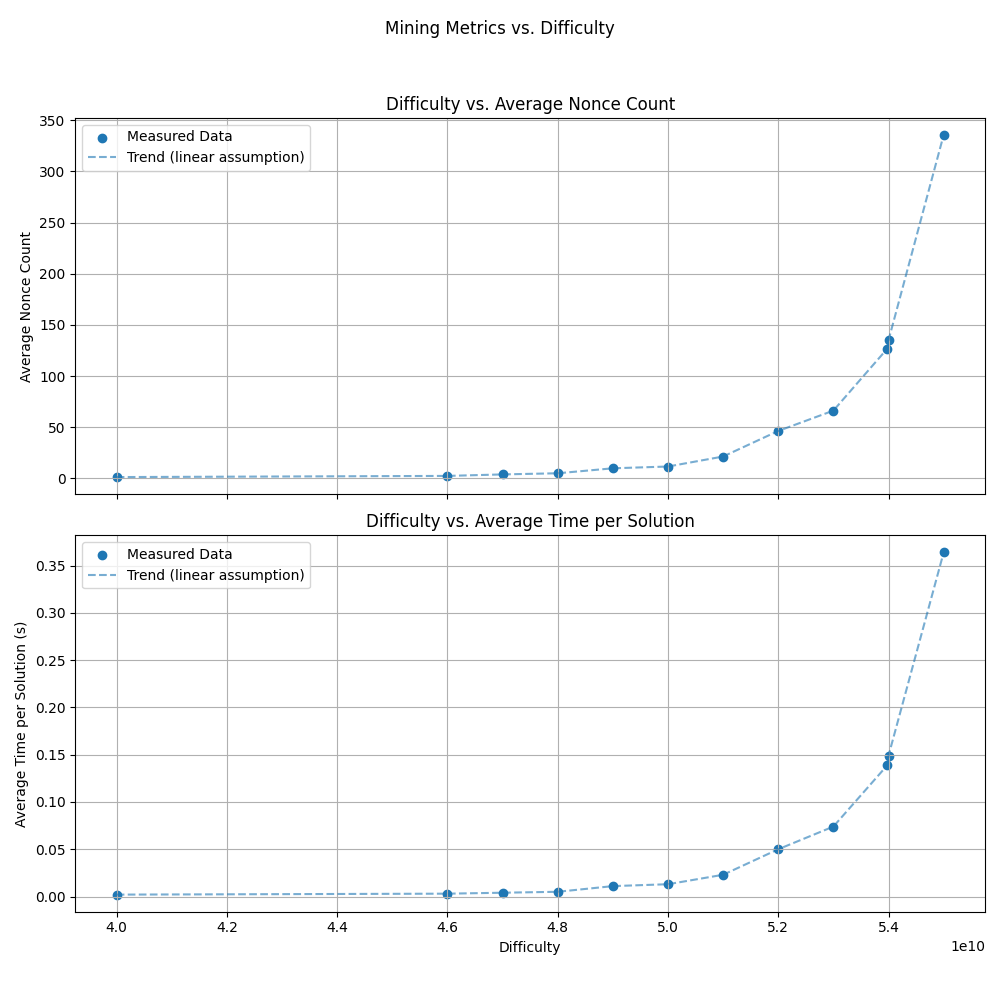
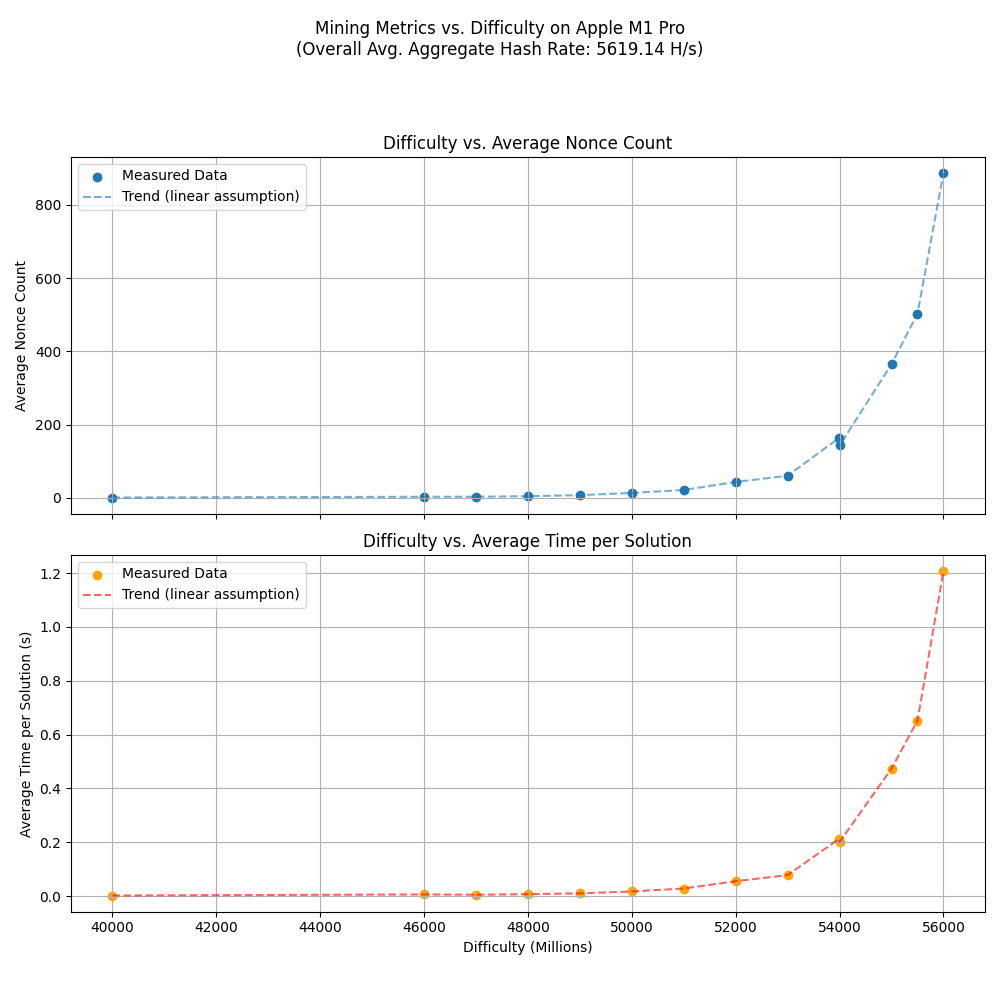
more data
added time back in it is better this way

diff --git a/plot_nonces.py b/plot_nonces.py
@@ -4,9 +4,11 @@ import re
 import io
 import argparse
 import numpy as np # For calculating the average hash rate safely
+import platform # Import platform module
+import subprocess # Import subprocess to run sysctl
 
 # --- Argument Parsing ---
-parser = argparse.ArgumentParser(description='Plot mining difficulty vs nonce count.')
+parser = argparse.ArgumentParser(description='Plot mining difficulty vs nonce count and time.')
 parser.add_argument(
     'input_file',
     nargs='?',
@@ -17,11 +19,62 @@ args = parser.parse_args()
 
 # --- Use parsed filename ---
 INPUT_FILENAME = args.input_file
-OUTPUT_PLOT_FILENAME = "difficulty_vs_nonce_count.png" # Renamed output file
+OUTPUT_PLOT_FILENAME = "difficulty_vs_metrics.png" # Back to original name
+
+# --- Get CPU Info ---
+cpu_info = "Unknown CPU" # Default value
+try:
+    system = platform.system()
+    if system == "Darwin": # macOS specific check
+        try:
+            # Use sysctl to get the detailed CPU brand string on macOS
+            result = subprocess.run(
+                ['sysctl', '-n', 'machdep.cpu.brand_string'],
+                capture_output=True, text=True, check=True
+            )
+            cpu_info = result.stdout.strip()
+        except (FileNotFoundError, subprocess.CalledProcessError, Exception) as e:
+             print(f"Warning: Could not get detailed CPU info via sysctl: {e}")
+             # Fallback to platform.processor() or uname on macOS if sysctl fails
+             cpu_info = platform.processor()
+             if not cpu_info:
+                 uname_info = platform.uname()
+                 cpu_info = f"{uname_info.machine} (macOS fallback)"
+
+    elif system == "Linux":
+        # On Linux, try reading /proc/cpuinfo for model name
+        try:
+            with open('/proc/cpuinfo') as f:
+                 for line in f:
+                     if line.strip().startswith('model name'):
+                         cpu_info = line.split(':', 1)[1].strip()
+                         break # Found the first model name
+            # Fallback if 'model name' not found
+            if cpu_info == "Unknown CPU":
+                cpu_info = platform.processor()
+                if not cpu_info:
+                    uname_info = platform.uname()
+                    cpu_info = f"{uname_info.machine} (Linux fallback)"
+        except FileNotFoundError:
+             print("Warning: /proc/cpuinfo not found.")
+             cpu_info = platform.processor() or f"{platform.uname().machine} (Linux fallback)"
+
+    elif system == "Windows":
+         cpu_info = platform.processor() or f"{platform.uname().machine} (Windows fallback)" # platform.processor often works well on Windows
+
+    else: # Other OS
+         cpu_info = platform.processor()
+         if not cpu_info:
+              uname_info = platform.uname()
+              cpu_info = f"{uname_info.machine} / {system} (fallback)"
+
+except Exception as e:
+    print(f"Warning: Error detecting CPU info: {e}")
+    cpu_info = "Unknown CPU" # Ensure it has a default
 
 data = []
-# Updated Regex to capture the new format
-line_regex = re.compile(r"Difficulty:\s*(\d+),\s*Average Nonce Count:\s*([\d\.]+),\s*Total Time:\s*([\d\.]+),\s*Aggregate Hash Rate:\s*([\d\.]+)")
+# Regex updated to capture the "Avg Time" again
+line_regex = re.compile(r"Difficulty:\s*(\d+),\s*Average Nonce Count:\s*([\d\.]+),\s*Avg Time:\s*([\d\.]+)\s*s,\s*Aggregate Hash Rate:\s*([\d\.]+)")
 
 print(f"Reading data from {INPUT_FILENAME}...")
 try:
@@ -32,11 +85,12 @@ try:
                 try:
                     difficulty = int(match.group(1))
                     avg_nonce_count = float(match.group(2))
-                    total_time = float(match.group(3)) # Can still capture if needed, but not plotting
+                    avg_time = float(match.group(3)) # Capture Avg Time
                     agg_hash_rate = float(match.group(4))
                     data.append({
                         "Difficulty": difficulty,
                         "AvgNonceCount": avg_nonce_count,
+                        "AvgTime": avg_time, # Store Avg Time
                         "AggHashRate": agg_hash_rate
                     })
                 except ValueError:
@@ -45,7 +99,8 @@ try:
     if not data:
          print("Error: No valid data lines found in the file. Did the Rust program run correctly?")
          print(f"Check the contents of '{INPUT_FILENAME}'. Expecting lines like:")
-         print("Difficulty: 56000000000, Average Nonce Count: 745.18, Total Time: 7.783, Aggregate Hash Rate: 4787.08")
+         # Updated example format
+         print("Difficulty: 56000000000, Average Nonce Count: 886.08, Avg Time: 1.207 s, Aggregate Hash Rate: 4555.75")
          exit()
 
     df = pd.DataFrame(data)
@@ -55,30 +110,38 @@ try:
     df["DifficultyMillions"] = df["Difficulty"] / 1e6
 
     print("Data loaded:")
-    print(df) # Will now show the DifficultyMillions column too
+    print(df)
 
-    # Calculate overall average aggregate hash rate (handling potential NaNs/Infs if any sample failed badly)
+    # Calculate overall average aggregate hash rate
     valid_hash_rates = df['AggHashRate'].replace([np.inf, -np.inf], np.nan).dropna()
     overall_avg_hash_rate = valid_hash_rates.mean() if not valid_hash_rates.empty else 0
 
-    print(f"\nOverall Average Aggregate Hash Rate: {overall_avg_hash_rate:.2f} H/s (Approx)") # Note: This is hashes/sec across all cores
+    print(f"\nOverall Average Aggregate Hash Rate: {overall_avg_hash_rate:.2f} H/s (Approx)")
+    print(f"Detected CPU/System: {cpu_info}") # Print detected info
 
-    # --- Create Single Plot ---
-    fig, ax1 = plt.subplots(1, 1, figsize=(10, 6)) # Adjusted for single plot
+    # --- Create Two Plots ---
+    fig, (ax1, ax2) = plt.subplots(2, 1, figsize=(10, 10), sharex=True) # Back to 2 rows, shared x-axis
+    fig.suptitle(f'Mining Metrics vs. Difficulty on {cpu_info}\n(Overall Avg. Aggregate Hash Rate: {overall_avg_hash_rate:.2f} H/s)')
 
-    # Add average hash rate to title
-    fig.suptitle(f'Difficulty vs. Average Nonce Count\n(Overall Avg. Aggregate Hash Rate: {overall_avg_hash_rate:.2f} H/s)')
-
-    # Plot: Difficulty vs Average Nonce Count (Using scaled difficulty)
+    # Plot 1: Difficulty vs Average Nonce Count
     ax1.scatter(df["DifficultyMillions"], df["AvgNonceCount"], label="Measured Data")
     ax1.plot(df["DifficultyMillions"], df["AvgNonceCount"], linestyle='--', alpha=0.6, label="Trend (linear assumption)")
-    ax1.set_xlabel("Difficulty (Millions)") # Updated x-axis label
     ax1.set_ylabel("Average Nonce Count")
-    # ax1.set_title("Difficulty vs. Average Nonce Count") # Title included in fig.suptitle
+    ax1.set_title("Difficulty vs. Average Nonce Count") # Can add title back if preferred
     ax1.grid(True)
     ax1.legend()
-    ax1.ticklabel_format(style='plain', axis='y') # Keep plain format for nonce count
-    ax1.ticklabel_format(style='plain', axis='x') # Use plain format for scaled x-axis
+    ax1.ticklabel_format(style='plain', axis='y')
+
+    # Plot 2: Difficulty vs Average Time per Solution
+    ax2.scatter(df["DifficultyMillions"], df["AvgTime"], label="Measured Data", color='orange') # Use different color
+    ax2.plot(df["DifficultyMillions"], df["AvgTime"], linestyle='--', alpha=0.6, label="Trend (linear assumption)", color='red')
+    ax2.set_xlabel("Difficulty (Millions)") # Set x-label on the bottom plot
+    ax2.set_ylabel("Average Time per Solution (s)")
+    ax2.set_title("Difficulty vs. Average Time per Solution")
+    ax2.grid(True)
+    ax2.legend()
+    # Format x-axis (applies to both since sharex=True)
+    ax1.ticklabel_format(style='plain', axis='x') # Use plain for scaled x-axis
 
 
     plt.tight_layout(rect=[0, 0.03, 1, 0.93]) # Adjust layout slightly for title
